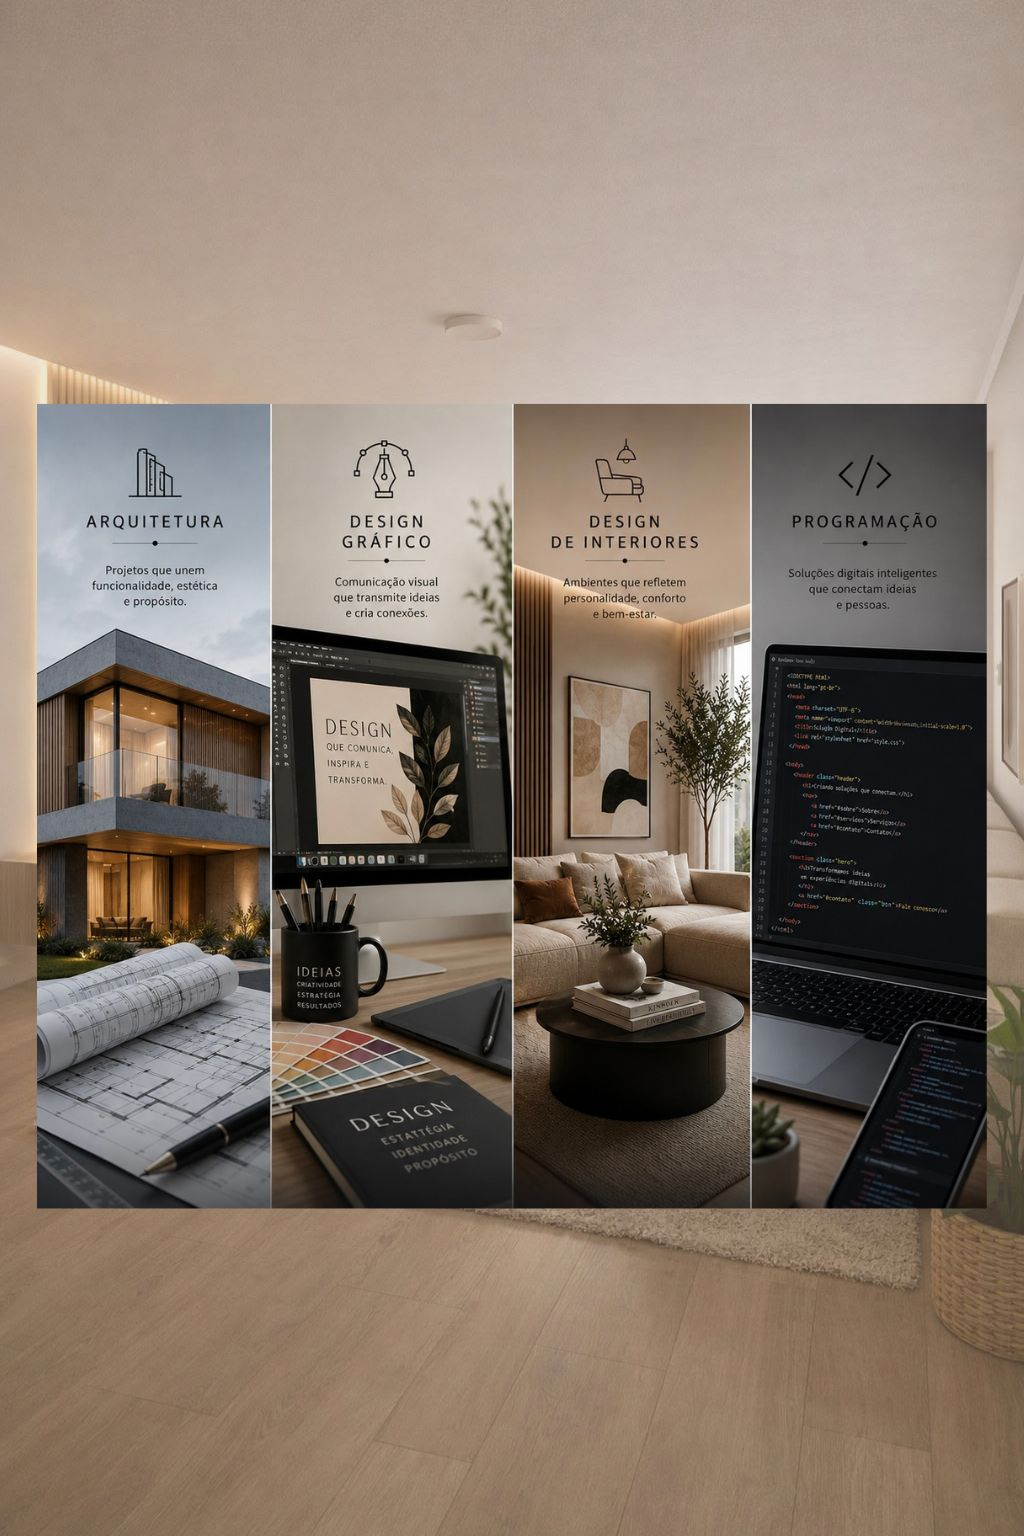
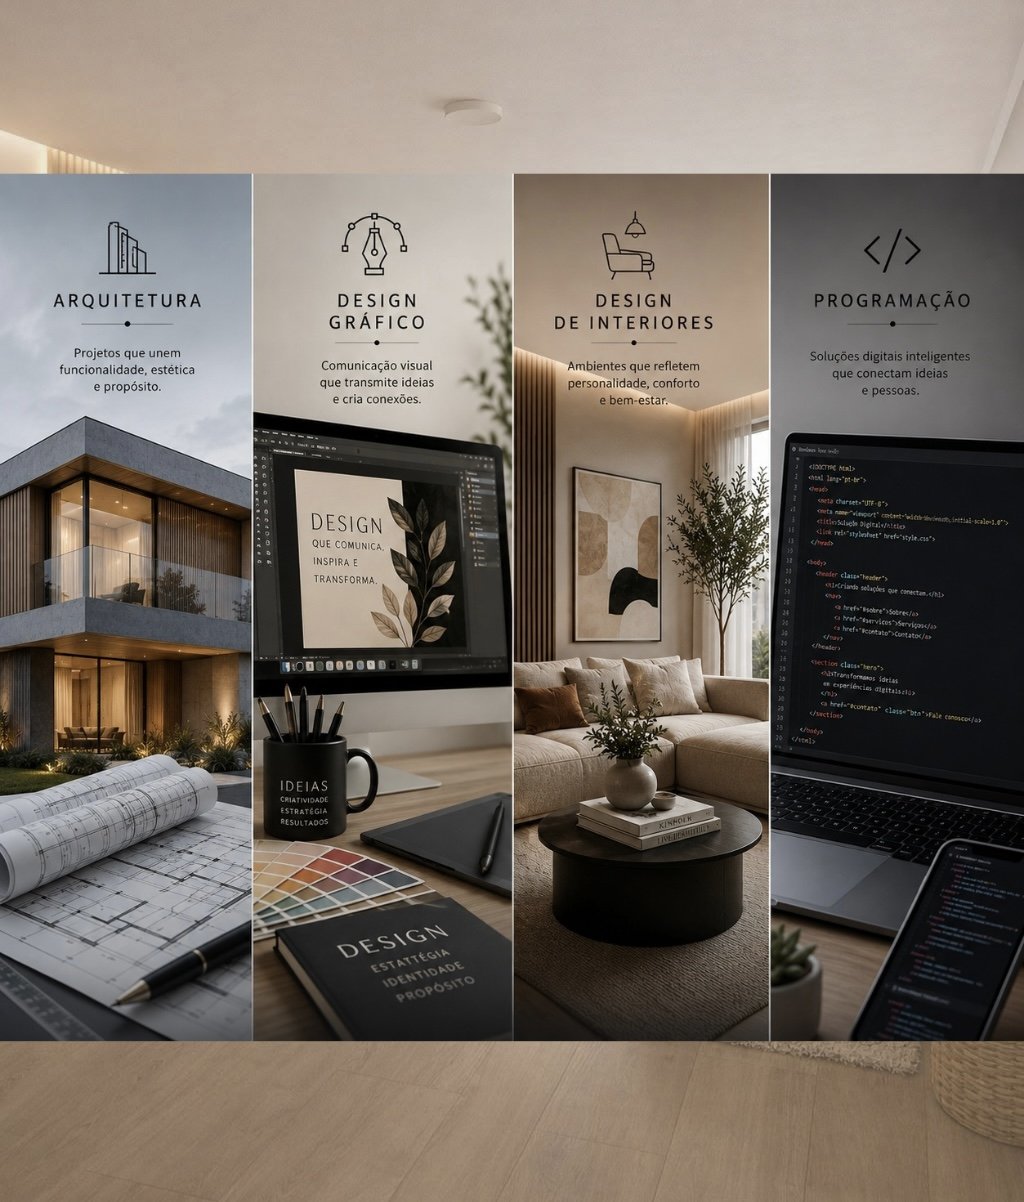
Add files via upload

diff --git a/index.html b/index.html
@@ -338,7 +338,7 @@ section{
 }
 
 .service{
-    background: rgba(193, 168, 151, 0.60);
+    background: rgba(193, 168, 151, 0.80);
 backdrop-filter: blur(10px);
 -webkit-backdrop-filter: blur(10px);
     padding:30px 20px;
@@ -1194,17 +1194,6 @@ alt="Design gráfico">
 
 </div>
 
-<div class="portfolio-item large">
-
-<img
-src="web.jpg"
-alt="Programação">
-
-<div class="portfolio-overlay">
-<h3>Programação</h3>
-</div>
-
-</div>
 
 <div class="portfolio-item">
 
